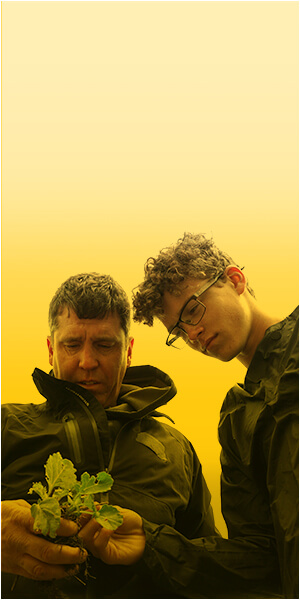
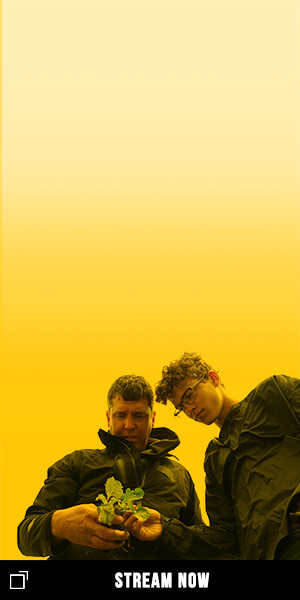
update 300x600 formats

diff --git a/2019/2019-10/2019-10-04/source/version1/300x600.css b/2019/2019-10/2019-10-04/source/version1/300x600.css
@@ -854,11 +854,4 @@
   -moz-animation: fadeInUp 0.75s ease-in-out 1.75s forwards;
   animation: fadeInUp 0.75s ease-in-out 1.75s forwards;
 }
-.cta {
-  background: url('./images/300x600_cta.png');
-  background-size: 100% auto;
-  -webkit-animation: fadeIn 0.75s ease-in-out 2.75s forwards;
-  -moz-animation: fadeIn 0.75s ease-in-out 2.75s forwards;
-  animation: fadeIn 0.75s ease-in-out 2.75s forwards;
-}
 

diff --git a/2019/2019-10/2019-10-04/source/version2/300x600.css b/2019/2019-10/2019-10-04/source/version2/300x600.css
@@ -854,11 +854,4 @@
   -moz-animation: fadeInUp 0.75s ease-in-out 1.75s forwards;
   animation: fadeInUp 0.75s ease-in-out 1.75s forwards;
 }
-.cta {
-  background: url('./images/300x600_cta.png');
-  background-size: 100% auto;
-  -webkit-animation: fadeIn 0.75s ease-in-out 2.75s forwards;
-  -moz-animation: fadeIn 0.75s ease-in-out 2.75s forwards;
-  animation: fadeIn 0.75s ease-in-out 2.75s forwards;
-}
 

diff --git a/2019/2019-10/2019-10-04/source/version1/300x600.html b/2019/2019-10/2019-10-04/source/version1/300x600.html
@@ -14,9 +14,9 @@
 				<div class="content container">
 					<div class="content-wrapper container">
 						<div class="bg container">&nbsp;</div>
+						<div class="logo container">&nbsp;</div>
 						<div class="text1 container">&nbsp;</div>
 						<div class="text2 container">&nbsp;</div>
-						<div class="cta container">&nbsp;</div>
 					</div>
 				</div>
 			</div>

diff --git a/2019/2019-10/2019-10-04/source/version2/300x600.html b/2019/2019-10/2019-10-04/source/version2/300x600.html
@@ -14,9 +14,9 @@
 				<div class="content container">
 					<div class="content-wrapper container">
 						<div class="bg container">&nbsp;</div>
+						<div class="logo container">&nbsp;</div>
 						<div class="text1 container">&nbsp;</div>
 						<div class="text2 container">&nbsp;</div>
-						<div class="cta container">&nbsp;</div>
 					</div>
 				</div>
 			</div>
